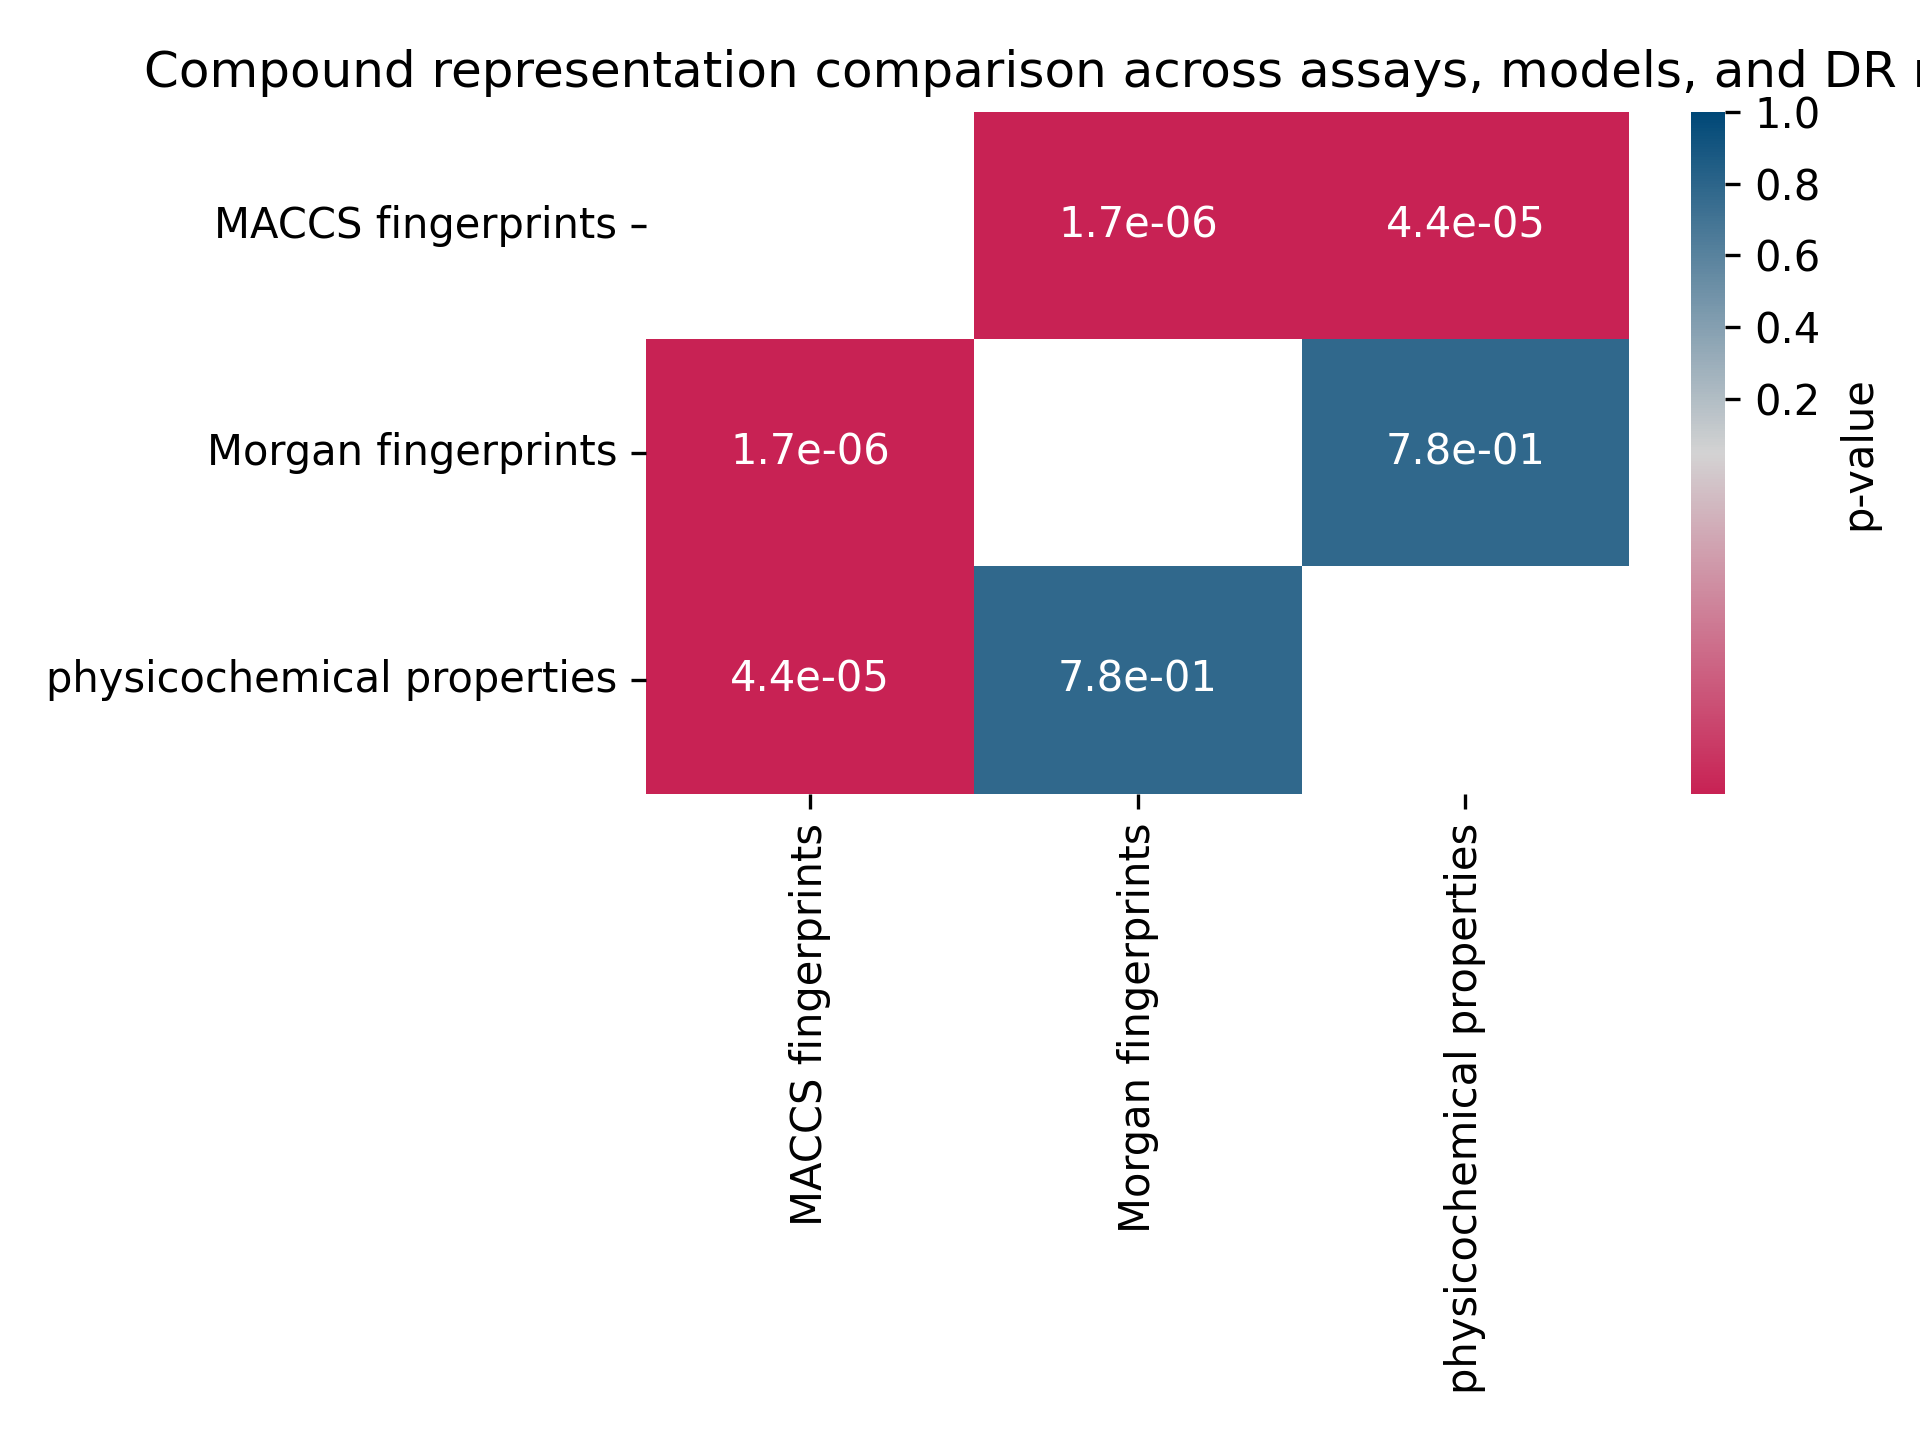
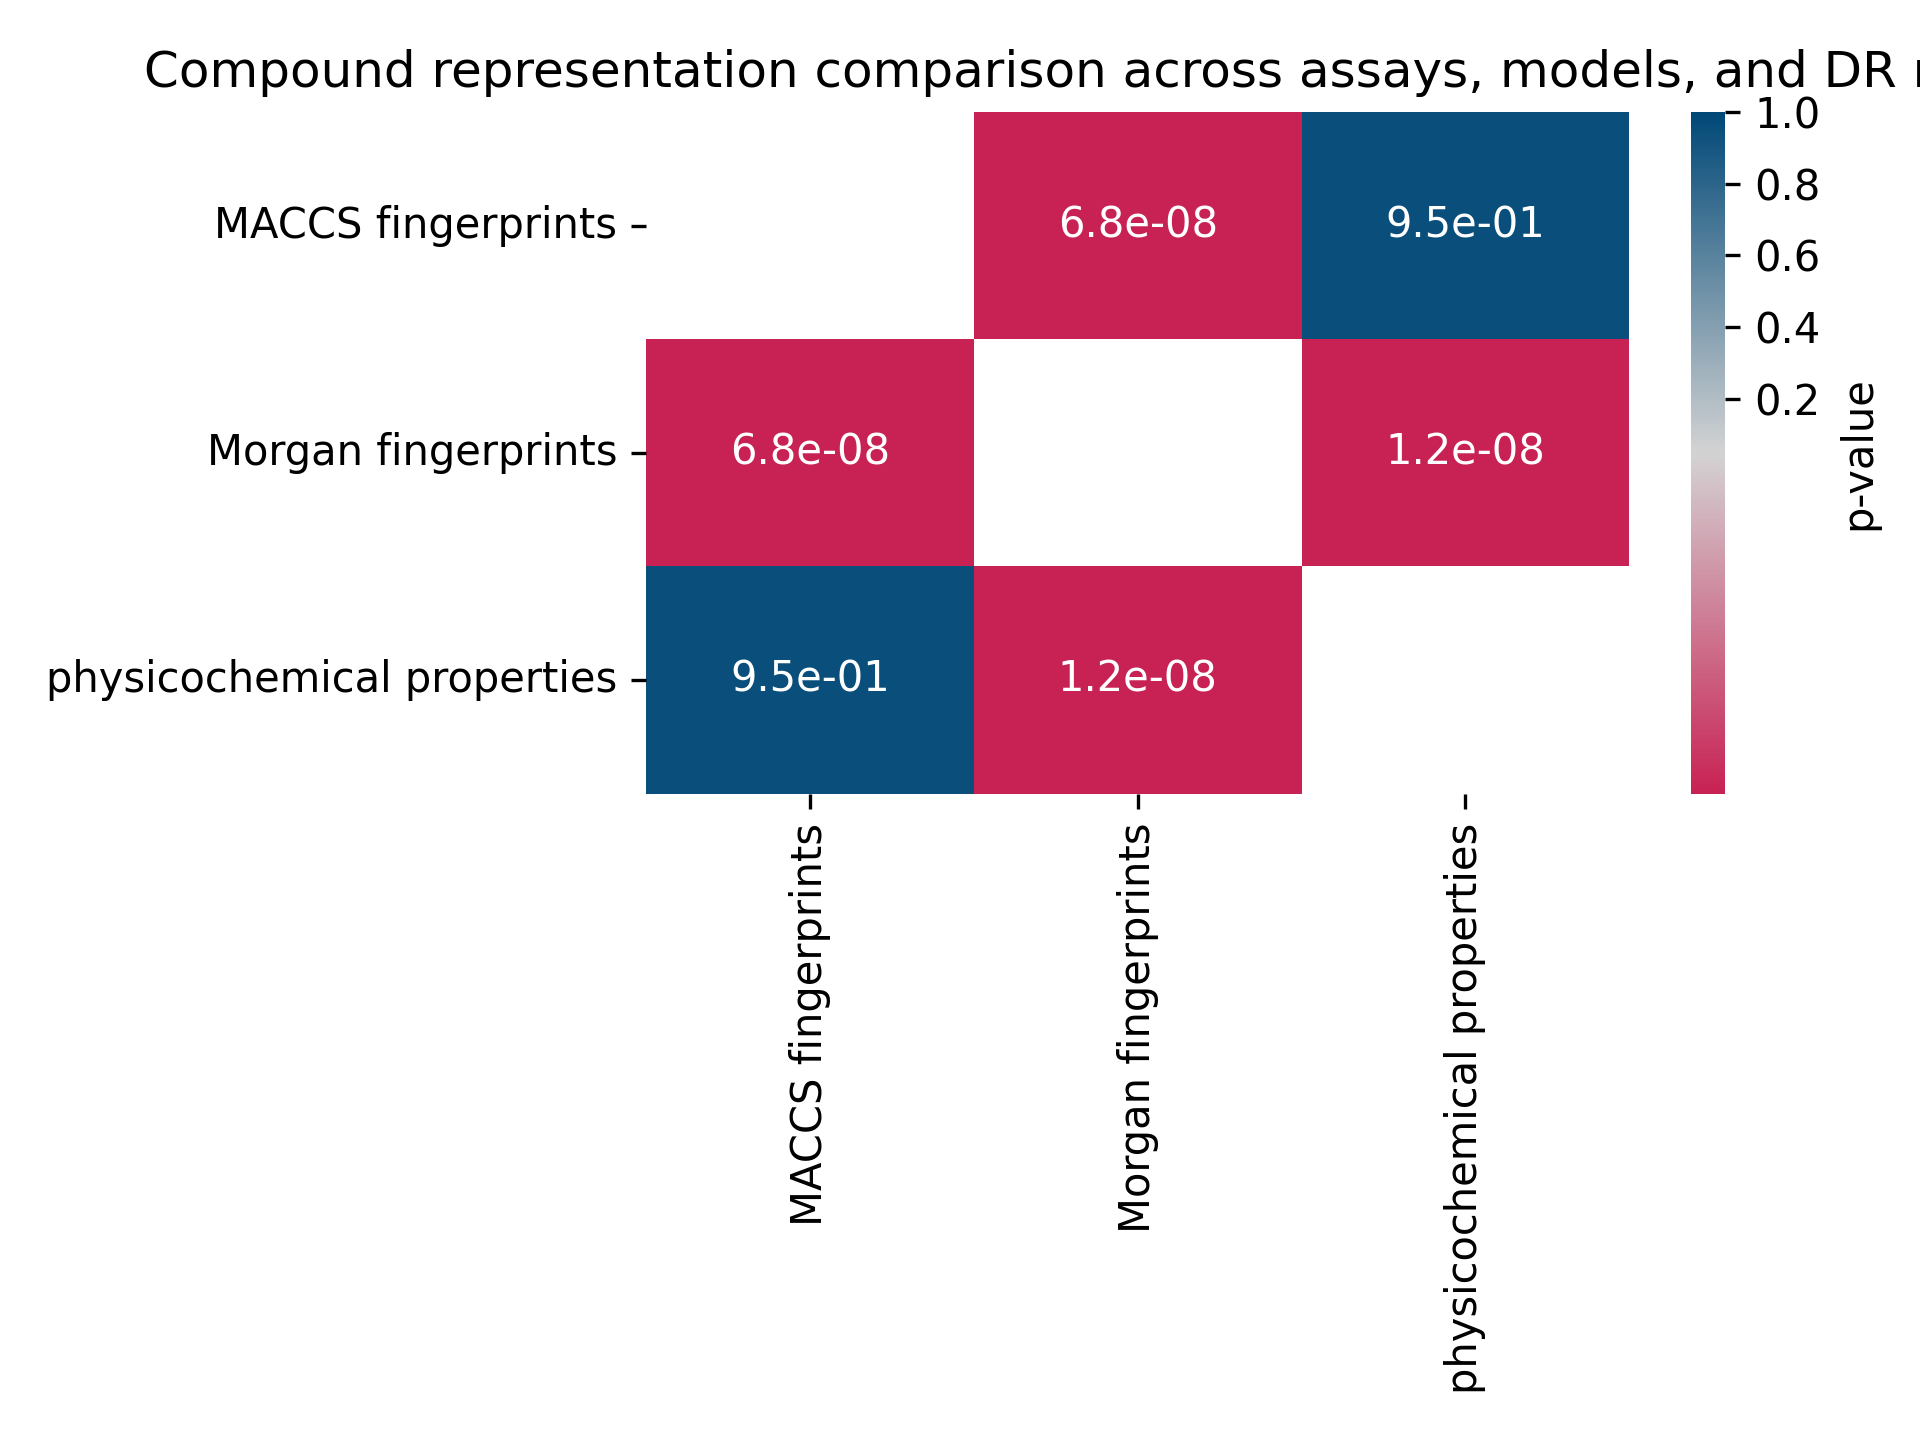
changed plotting scripts and added some more plots comparing representations

Changed region(s): [[0.3125, 0.0625, 0.875, 0.5625], [0.375, 0.2812, 0.4062, 0.3125]]

diff --git a/evaluation/generate_representation_comparison_across_and_per_model.py b/evaluation/generate_representation_comparison_across_and_per_model.py
@@ -156,7 +156,7 @@ def parse_args():
     parser = argparse.ArgumentParser(description="Evaluation of 5 fold CV results comparing DR methods across all assays with one feature-DR combination")
     parser.add_argument("-d", '--directory', help="input_directory", default='/home/lisa-marie-rolli/ToxCastBenchmark/model_outputs/') 
     parser.add_argument("--output_dir", '-o', help="Output_directory", default='/home/lisa-marie-rolli/ToxCastBenchmark/plotting_results/')
-    parser.add_argument("--tabpfn_missing", help="is TabPFN missing", default=True, type=bool)
+    parser.add_argument("--tabpfn_missing", help="is TabPFN missing", default=False, type=bool)
     return parser.parse_args()
 
 
@@ -166,7 +166,7 @@ def main(args):
     final_results = None
     
     out_dir = args.output_dir
-    num_models = 5 if (not bool(args.tabpfn_missing)) else 4
+    num_models = [5] if (not bool(args.tabpfn_missing)) else [4,5]
     for feature_type in ['physchem', 'morgan', 'maccs', 'embeddings']:
         for dr_method in ['MI', 'mrmr', 'pca', 'variance']:
             for subfolder in ['androgens', 'estrogens', 'glucocorticoids', 'progestagens', 'steroidal']:
@@ -192,7 +192,7 @@ def main(args):
                         except:
                             assay_done = False
                             break
-                        if not len(new_df) == num_models:
+                        if not len(new_df) in num_models:
                             assay_done = False
                             break
                         

diff --git a/evaluation/generate_DR_method_comparison_across_and_per_model.py b/evaluation/generate_DR_method_comparison_across_and_per_model.py
@@ -158,7 +158,7 @@ def parse_args():
     parser.add_argument("-d", '--directory', help="input_directory", default='/home/lisa-marie-rolli/ToxCastBenchmark/model_outputs/')
     parser.add_argument("--feature_type", '-f', help="Feature type used", default='morgan')
     parser.add_argument("--output_dir", '-o', help="Output_directory", default='/home/lisa-marie-rolli/ToxCastBenchmark/plotting_results/')
-    parser.add_argument("--tabpfn_missing", help="is TabPFN missing", default=False, type=bool)
+
     return parser.parse_args()
 
 
@@ -168,7 +168,7 @@ def main(args):
     final_results = None
     feature_type = args.feature_type
     out_dir = args.output_dir
-    num_models = 5 if (not bool(args.tabpfn_missing)) else 4
+    num_models = [4,5]
     for dr_method in ['MI', 'mrmr', 'pca', 'variance', 'none']:
         for subfolder in ['androgens', 'estrogens', 'glucocorticoids', 'progestagens', 'steroidal']:
             directory = f'{args.directory}/{subfolder}/'
@@ -193,7 +193,7 @@ def main(args):
                     except:
                         assay_done = False
                         break
-                    if not len(new_df) == num_models:
+                    if not len(new_df) in num_models:
                         assay_done = False
                         break
                     

diff --git a/evaluation/generate_model_comparison_across_all_feature_and_DR_methods.py b/evaluation/generate_model_comparison_across_all_feature_and_DR_methods.py
@@ -166,7 +166,8 @@ def main(args):
 
     final_results = None
     out_dir = args.output_dir
-    num_models = 5 if (not bool(args.tabpfn_missing)) else 4
+    num_models = [5] if (not bool(args.tabpfn_missing)) else [4, 5]
+    print(num_models)
     for dr_method in ['MI', 'mrmr', 'pca', 'variance', 'none']:
         for feature_type in ['morgan', 'maccs', 'physchem']:
             for subfolder in ['androgens', 'estrogens', 'glucocorticoids', 'progestagens', 'steroidal']:
@@ -192,7 +193,7 @@ def main(args):
                         except:
                             assay_done = False
                             break
-                        if not len(new_df) == num_models:
+                        if not len(new_df) in num_models:
                             assay_done = False
                             break
                         

diff --git a/evaluation/generate_model_comparison_per_feature_type_and_DR_method.py b/evaluation/generate_model_comparison_per_feature_type_and_DR_method.py
@@ -373,7 +373,7 @@ def main(args):
                     final_results = pd.concat(
                         [final_results, results_df.copy(deep=True)])
                     final_results.reset_index(inplace=True, drop=True)
-                
+        
             
         
         feature_name_map = {
@@ -390,7 +390,7 @@ def main(args):
             "tabpfn": "TabPFN"
         }
 
-
+    print(final_results)
     create_boxplots_per_assay(final_results=final_results, dr_method=dr_method, feature_name_map=feature_name_map, feature_type=feature_type, model_name_map=model_name_map, output_dir=out_dir)
     cd_plot_for_nemenyi(final_results, dr_method, model_name_map, feature_type, feature_name_map, output_dir=out_dir)
 
